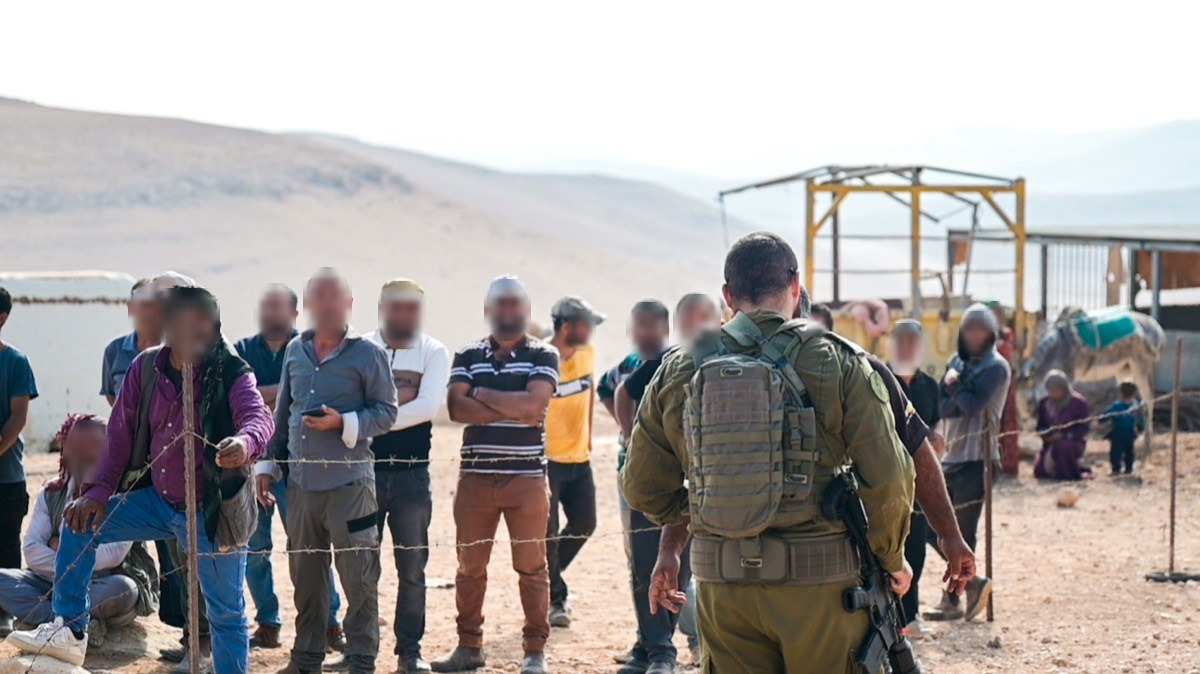
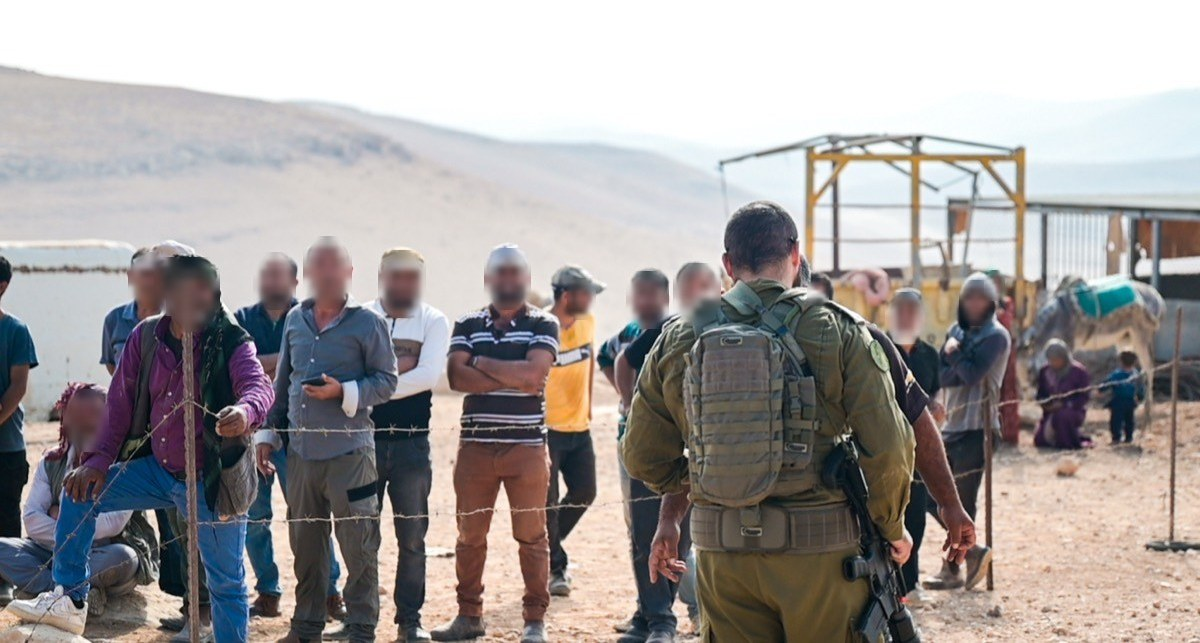
client-day: עדכון גרסת יום העבודה המשותף (תוספת בלבד, בלי לגעת בקבצים קיימים)

diff --git a/יום-עבודה-עם-הלקוח/index.html b/יום-עבודה-עם-הלקוח/index.html
@@ -292,6 +292,25 @@
   /* image fills the remaining space → same size when text is 5 lines; SHRINKS when "קרא עוד" opens the full text */
   .tl-card .ph{flex:1 1 auto;min-height:48px;margin-top:12px;border-radius:11px;overflow:hidden;position:relative}
   .tl-card .ph img{width:100%;height:100%;object-fit:cover}
+  /* Where each service photo is cropped. The card's photo box is ~1.45:1 but ten of these are
+     phone portraits (down to 9:16), so a dead-centre crop threw away most of the frame and left
+     the soldiers out of shot (client, 2026-08-09). Positions come from face detection, and from
+     a saliency pass on the photos with no people in them (kit, Tanach, gear). */
+  .tl-slide[src$="svc-ktzuna-01.jpg"]{object-position:55% 50%}   /* 16 face(s) */
+  .tl-slide[src$="svc-kurs-03.jpg"]{object-position:50% 69%}   /* 2 face(s) */
+  .tl-slide[src$="svc-kurs-04.jpg"]{object-position:50% 57%}   /* 3 face(s) */
+  .tl-slide[src$="svc-kurs-06.jpg"]{object-position:50% 54%}   /* 7 face(s) */
+  .tl-slide[src$="svc-shibutz-04.jpg"]{object-position:50% 30%}   /* 2 face(s) */
+  .tl-slide[src$="svc-tafkid-02.jpg"]{object-position:50% 54%}   /* 2 face(s) */
+  .tl-slide[src$="svc-tafkid-07.jpg"]{object-position:41% 50%}   /* 12 face(s) */
+  .tl-slide[src$="svc-tafkid-09.jpg"]{object-position:50% 54%}   /* 6 face(s) */
+  .tl-slide[src$="svc-tironut-03.jpg"]{object-position:50% 63%}   /* object (saliency) */
+  .tl-slide[src$="svc-tironut-07.jpg"]{object-position:50% 60%}   /* object (saliency) */
+  .tl-slide[src$="svc-tironut-08.jpg"]{object-position:50% 33%}   /* object (saliency) */
+  .tl-slide[src$="svc-tironut-09.jpg"]{object-position:50% 74%}   /* object (saliency) */
+  .tl-slide[src$="svc-tironut-10.jpg"]{object-position:50% 74%}   /* 5 face(s) */
+  .tl-slide[src$="svc-tironut-11.jpg"]{object-position:50% 54%}   /* object (saliency) */
+  .tl-slide[src$="svc-tironut-12.jpg"]{object-position:50% 55%}   /* 2 face(s) */
   .tl-card .ph .tl-slide{position:absolute;inset:0;opacity:0;transition:opacity .9s ease}
   .tl-card .ph .tl-slide.on{opacity:1}
   /* stepper: connecting line + dots; first step shows the envelope circle, active step highlights in accent */
